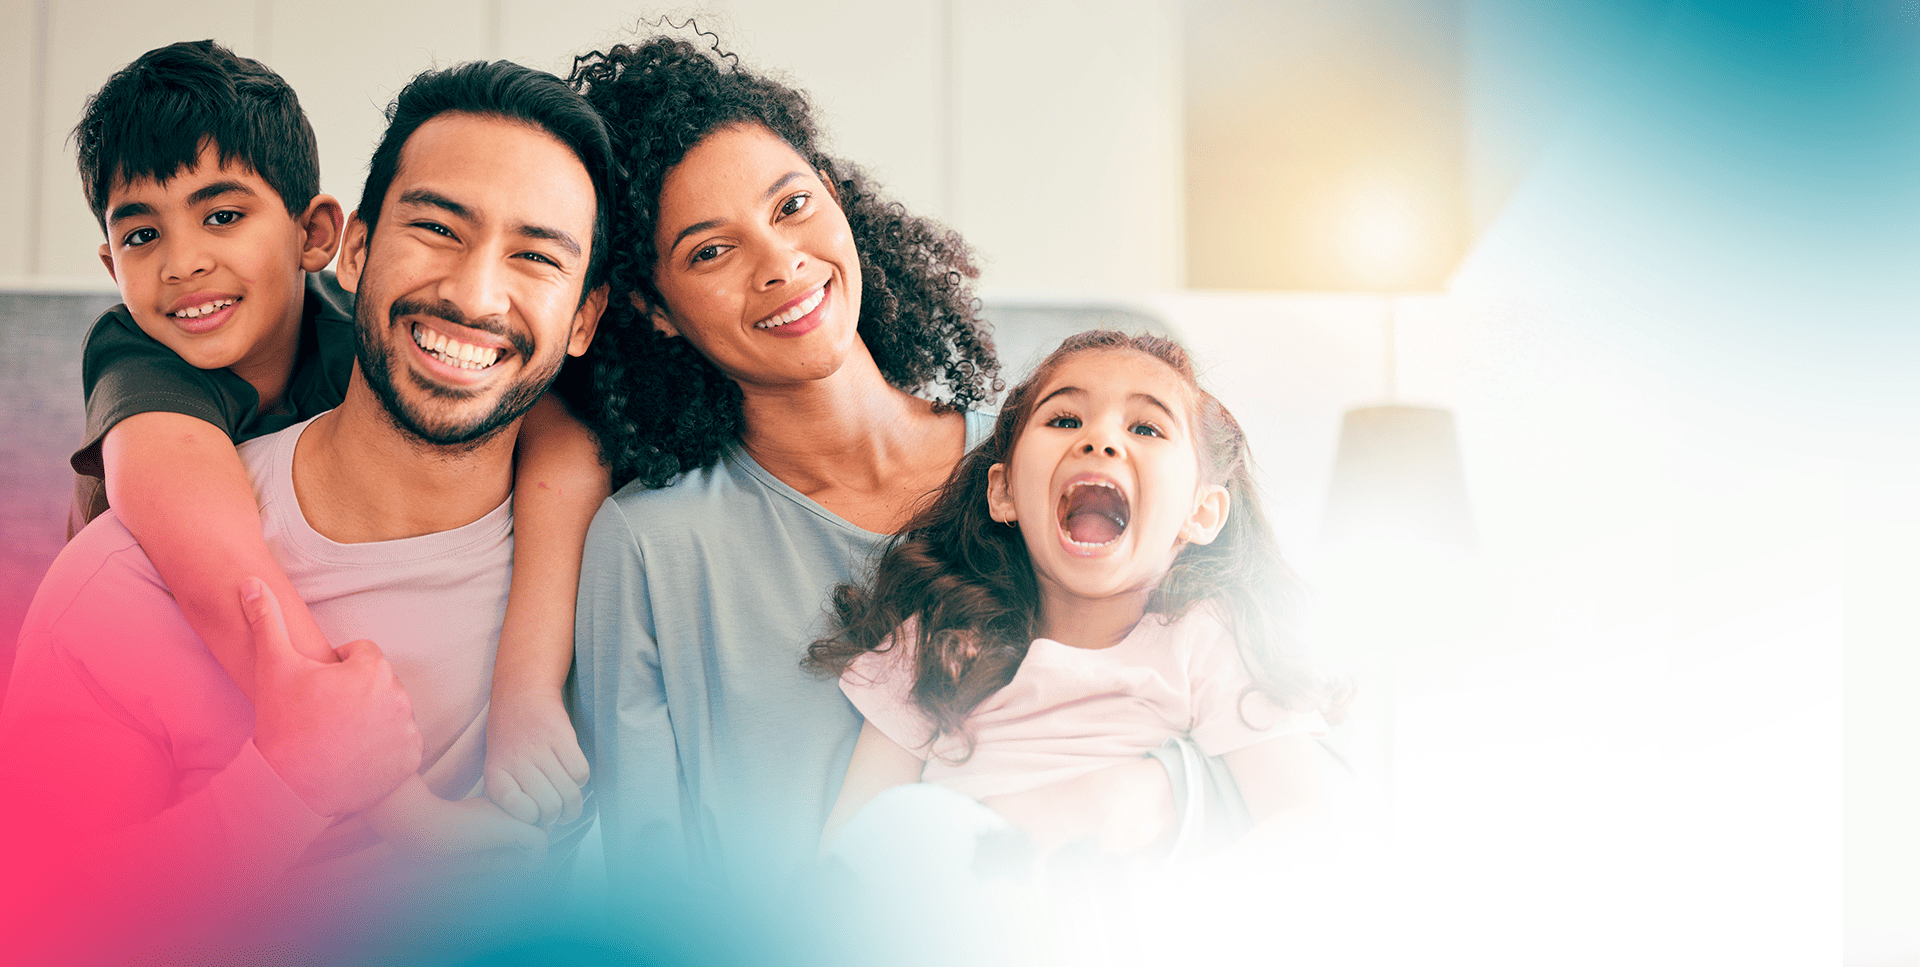
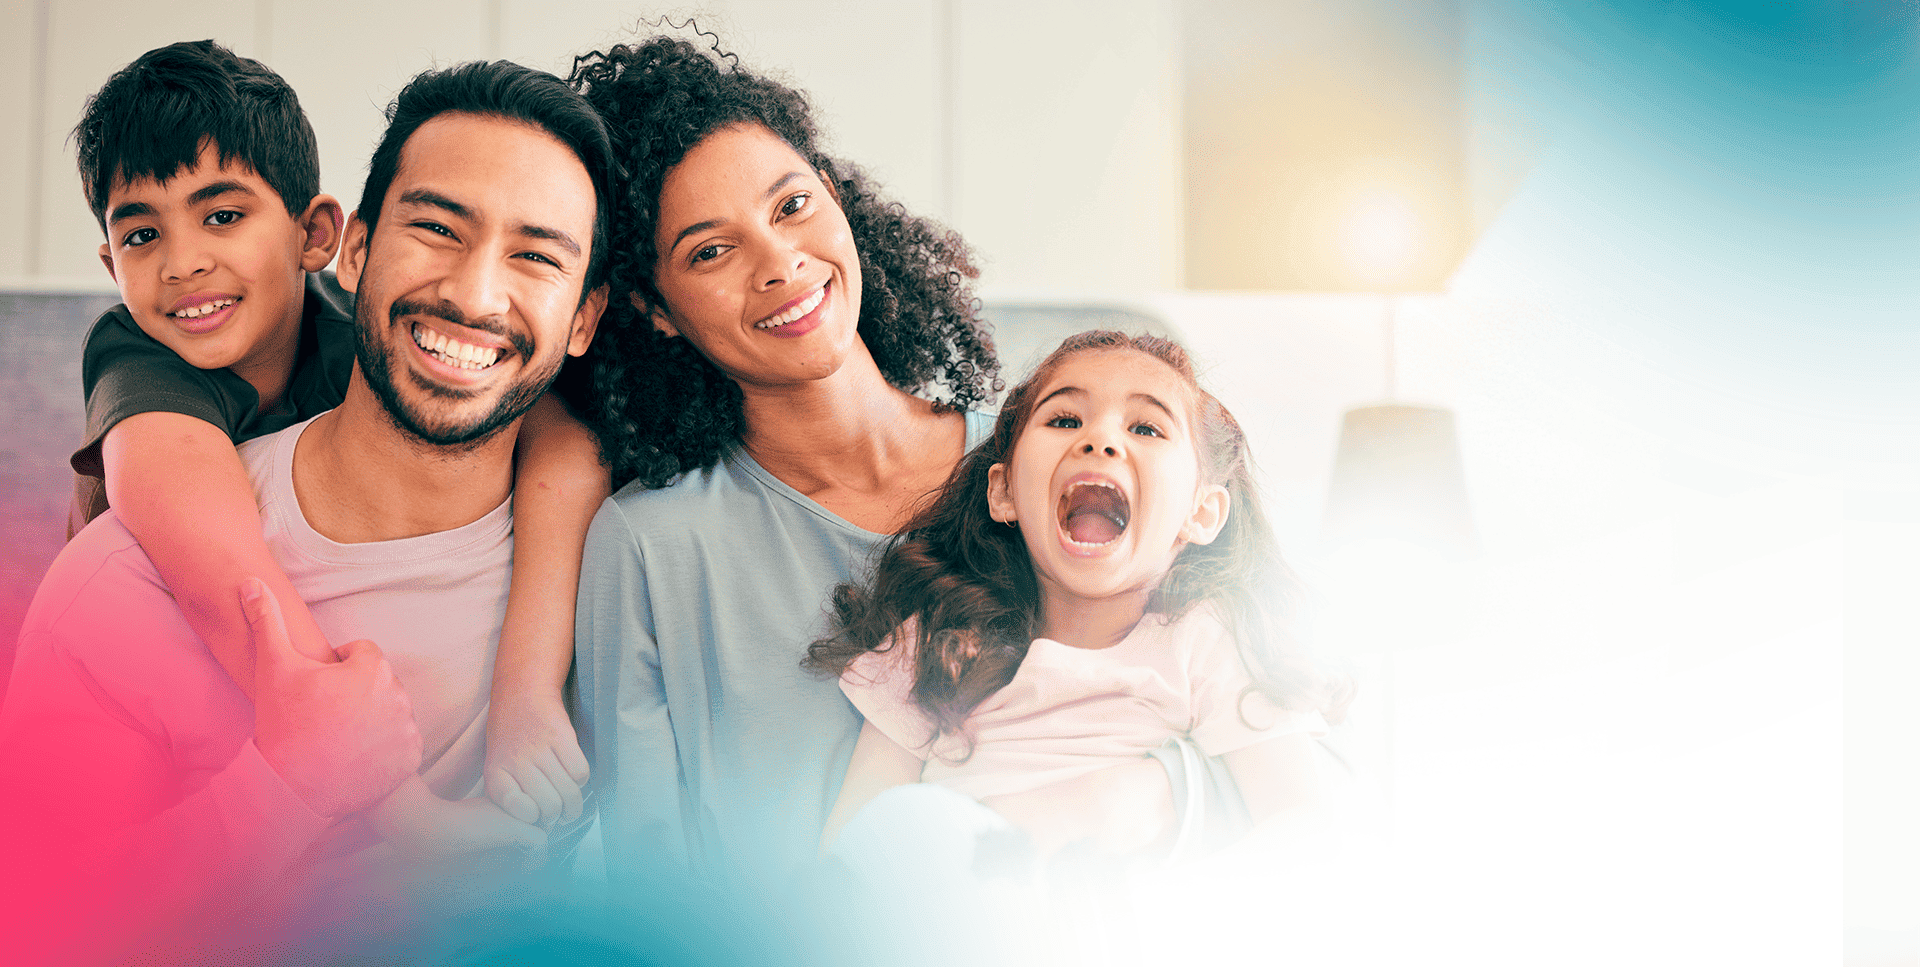
feat: ajuste

diff --git a/views/home/index.tsx b/views/home/index.tsx
@@ -32,7 +32,7 @@ const Home = () => {
       {/* Hero */}
       <section
         id=""
-        style={{ backgroundImage: `url('./img/bg-hero.png')` }}
+        style={{ backgroundImage: `url('/img/bg-hero.png')` }}
         className="h-[95vh] relative bg-cover"
       >
         <div className="container m-auto px-4">
@@ -201,7 +201,7 @@ const Home = () => {
                   >
                     <p className=" font-bold text-lg lg:text  ">{data.nome}</p>
                     <img
-                      src="./img/db9e1a5e-19b5-46a9-9daf-7217c488e8d2.png"
+                      src="/img/db9e1a5e-19b5-46a9-9daf-7217c488e8d2.png"
                       className="absolute w-8 h-8 right-[-15px] top-[-15px]"
                       alt=""
                     />
@@ -284,7 +284,7 @@ const Home = () => {
       {/* Mapa */}
       <section
         style={{
-          backgroundImage: !isMobile ? `url('./img/bg-invertido.png')` : '',
+          backgroundImage: !isMobile ? `url('/img/bg-invertido.png')` : '',
         }}
         className="bg-left-top bg-no-repeat"
       >
@@ -656,7 +656,7 @@ const Home = () => {
         id="quemsomos"
         className="md:pt-20 pt-11  bg-no-repeat bg-cover"
         style={{
-          backgroundImage: !isMobile ? `url('./img/bg-perguntas.png')` : 'none',
+          backgroundImage: !isMobile ? `url('/img/bg-perguntas.png')` : 'none',
         }}
       >
         <div className="container m-auto px-4">
